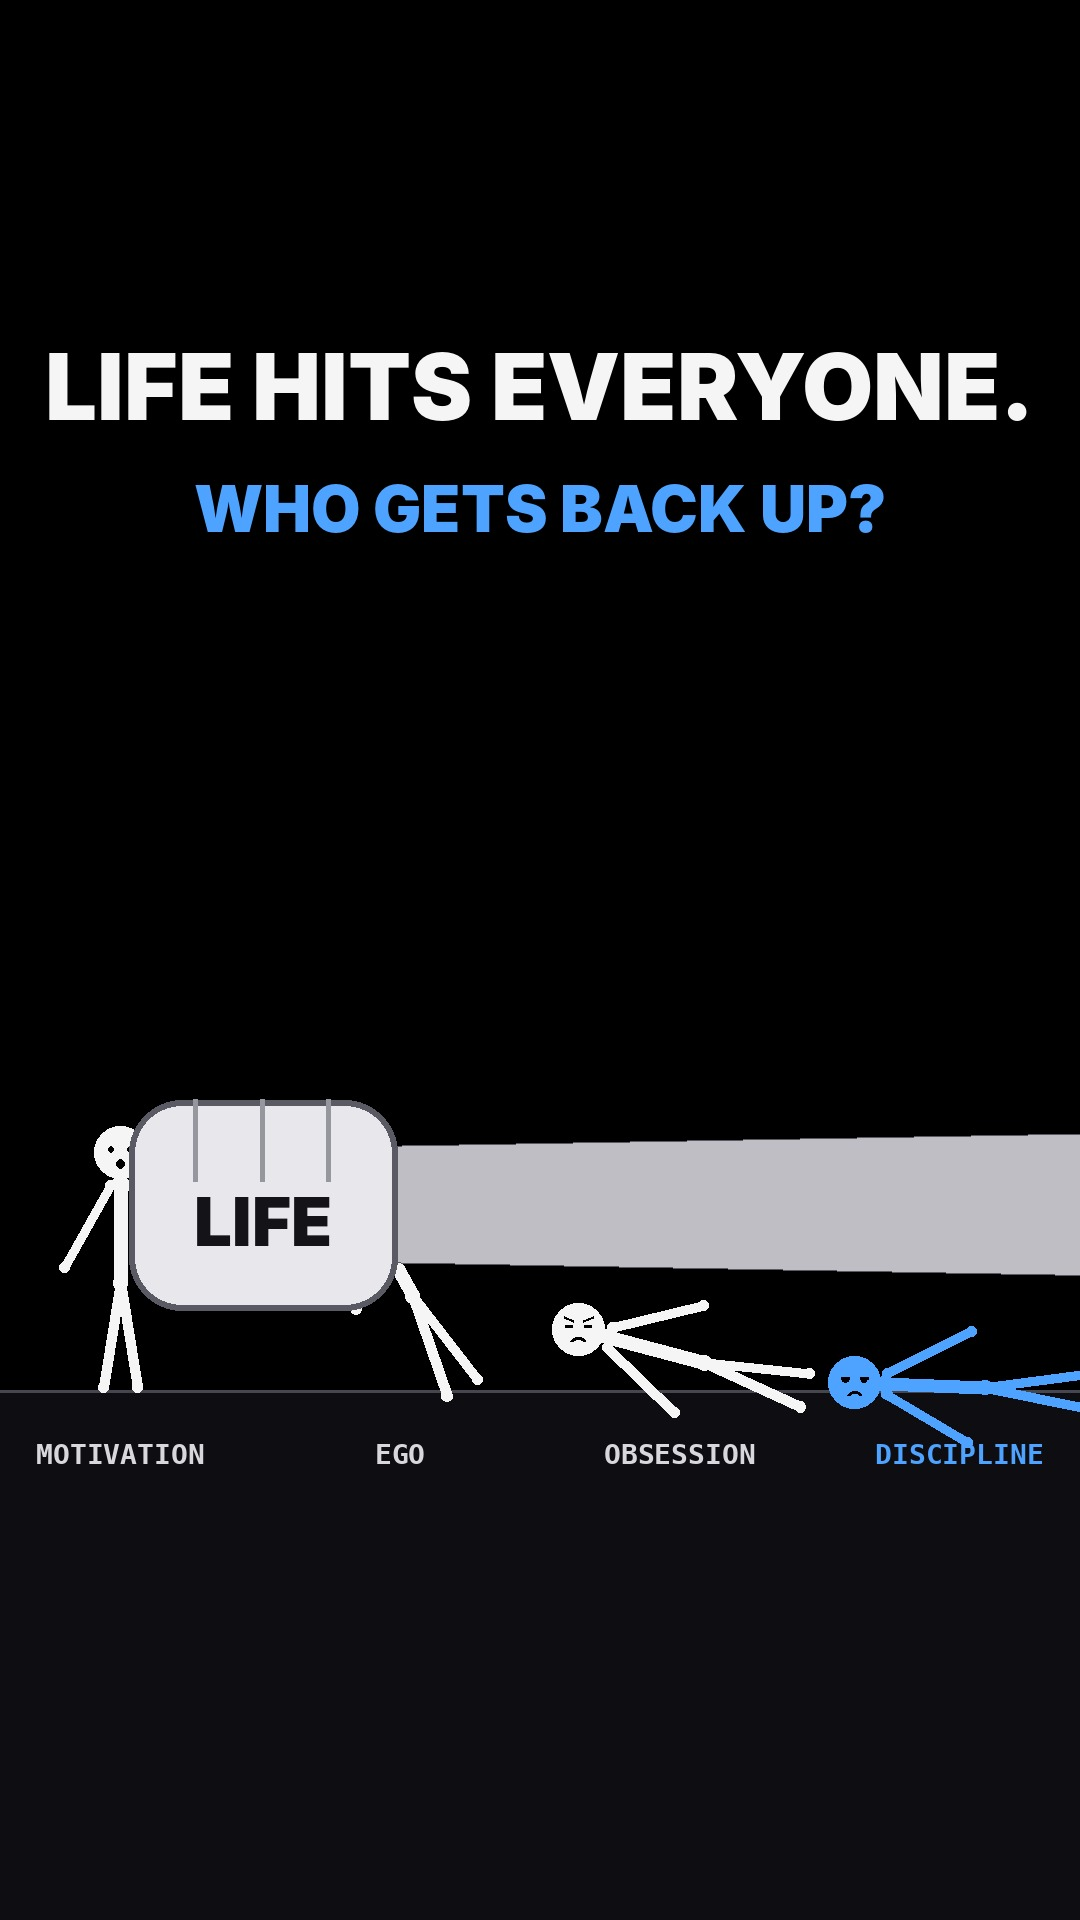
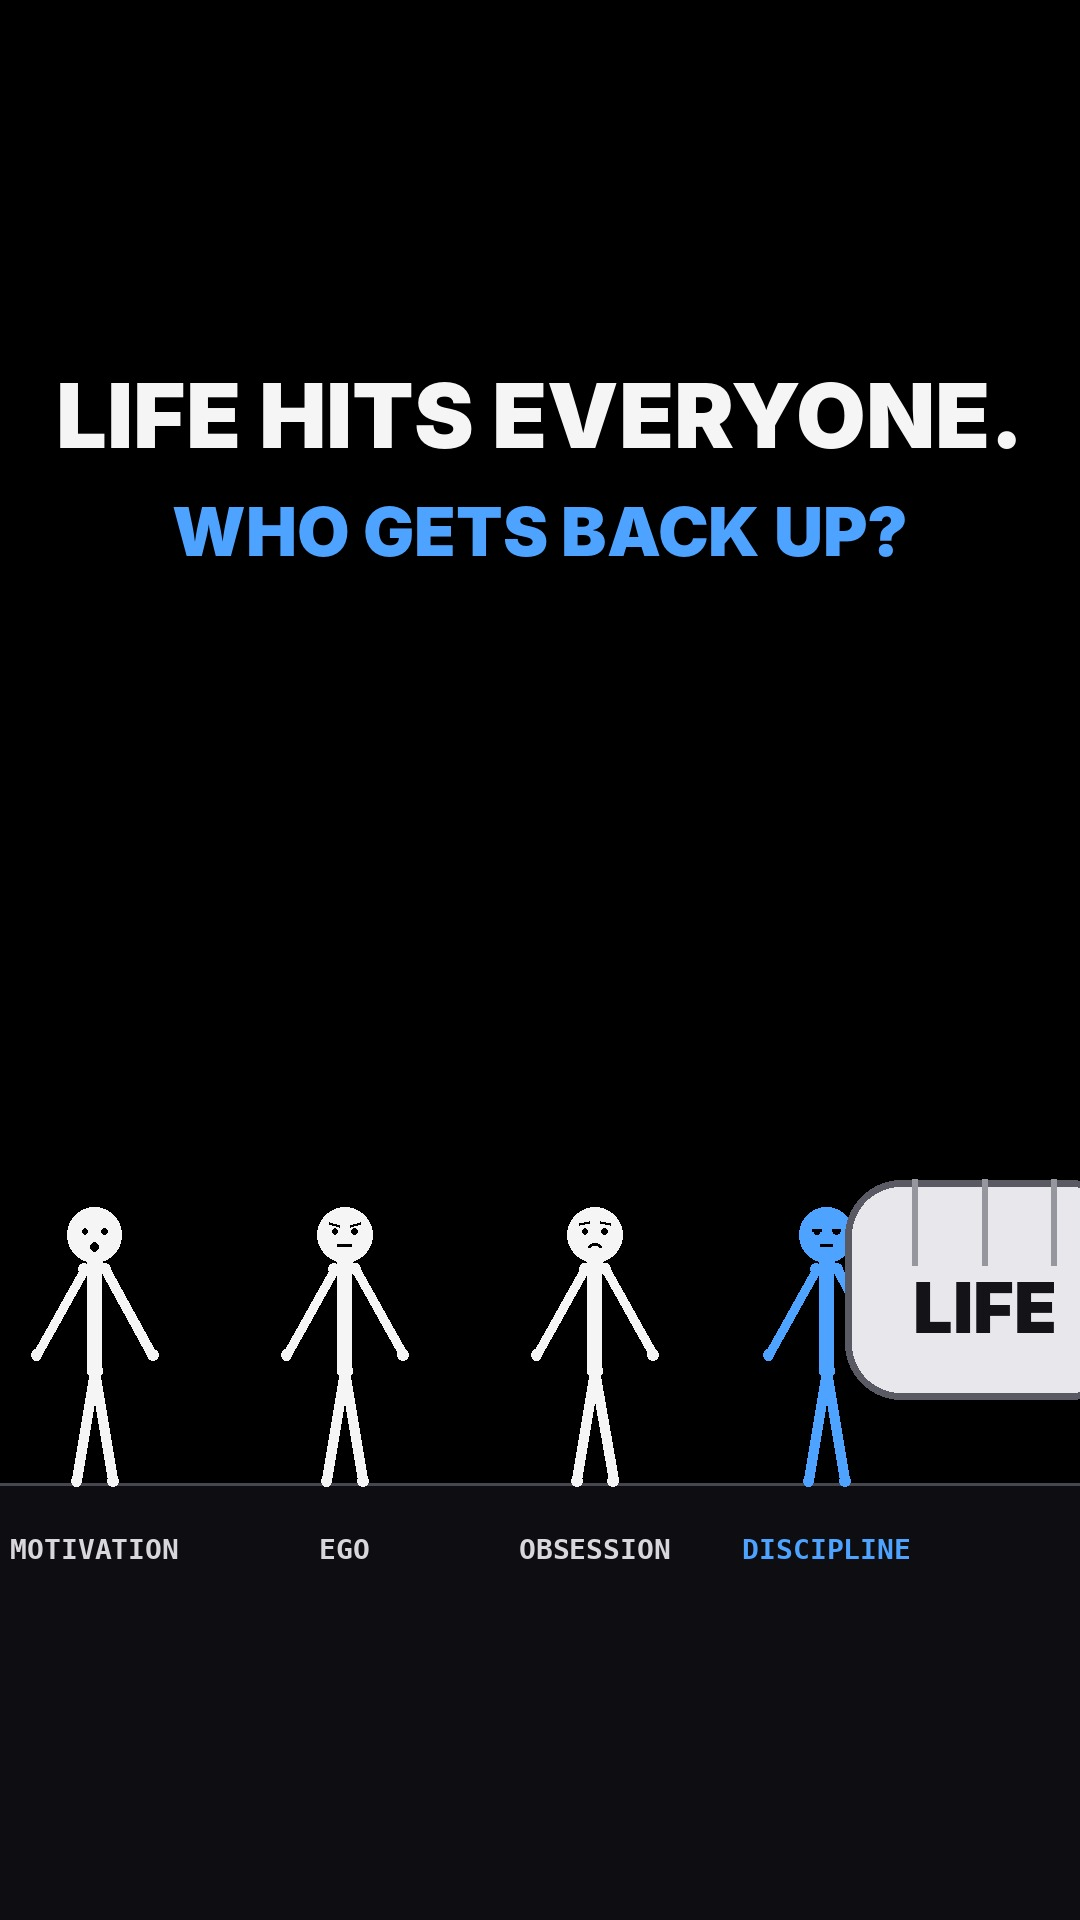
Life hits everyone: copertina e didascalia nuove
Claude-Session: https://claude.ai/code/session_016kxKsF6QmhTmDFmJF6Dm4z

Changed region(s): [[0.0, 0.5625, 1.0, 0.8125], [0.0306, 0.1562, 0.9472, 0.3125]]

diff --git a/DA-PUBBLICARE.md b/DA-PUBBLICARE.md
@@ -9,7 +9,7 @@ Come si fa, per ogni Reel:
 
 ---
 
-## NUOVO 28/11 – 3 Reel in inglese sulla mentalità (ognuno con un elemento che fa commentare)
+## NUOVO 28/11 – 3 Reel in inglese sulla mentalità (il titolare tiene solo il n. 3, "Life hits everyone"; 1 e 2 scartati: realizzazione povera)
 Orari consigliati: 12:30 · 16:30 · 20:30 ("Same paycheck" è uscito alle 17:26). Copertina personalizzata dal file `_copertina.jpg`.
 
 ### 1 – "4 builders. 1 idea. 100 days." (21,4 s)
@@ -61,16 +61,18 @@ Audio: drammatica e potente (colpi sui pugni), con un cambio ironico sul selfie 
 ```
 Life hits everyone. 👊
 
-Motivation stayed down.
-Ego hit back. Bad idea.
-Obsession got up until his body said stop.
-Discipline got up. Every single time.
+Round 1: Motivation stayed down.
+Round 2: Ego hit back. Bad idea.
+Round 3: Obsession got up until his body said stop.
 
-Which one are you? 👇
+Discipline got up every single time.
+Then he took a selfie. 📸
+
+Was that necessary? And which one are you? 👇
 
 #mindset #discipline #resilience #motivation #stickfigure
 ```
-Primo commento da fissare: "Discipline wins... and then posts it 😭 Which one are you?"
+Primo commento da fissare: "Be honest: which round would have knocked YOU out? 1, 2 or 3 👇"
 
 ---
 
